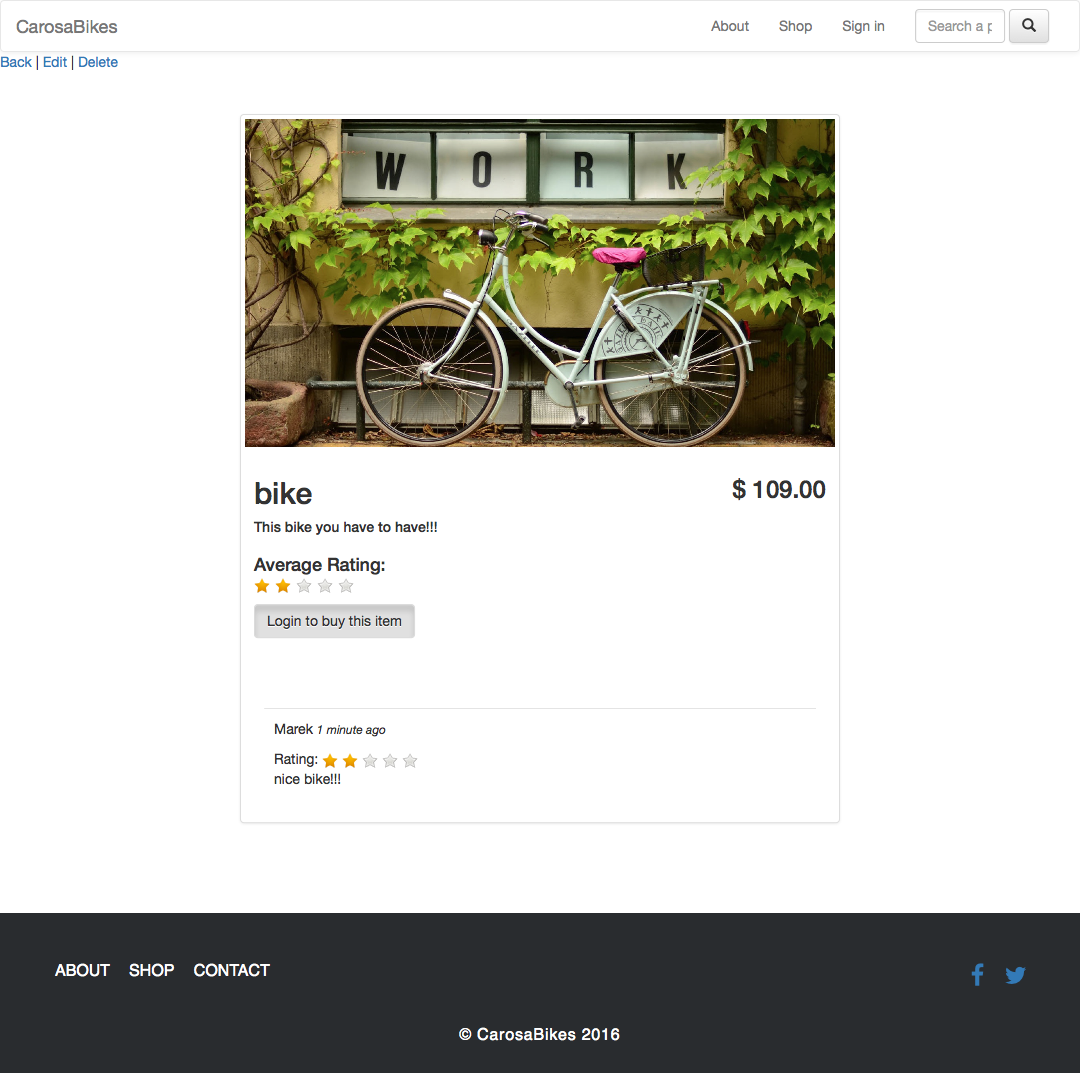
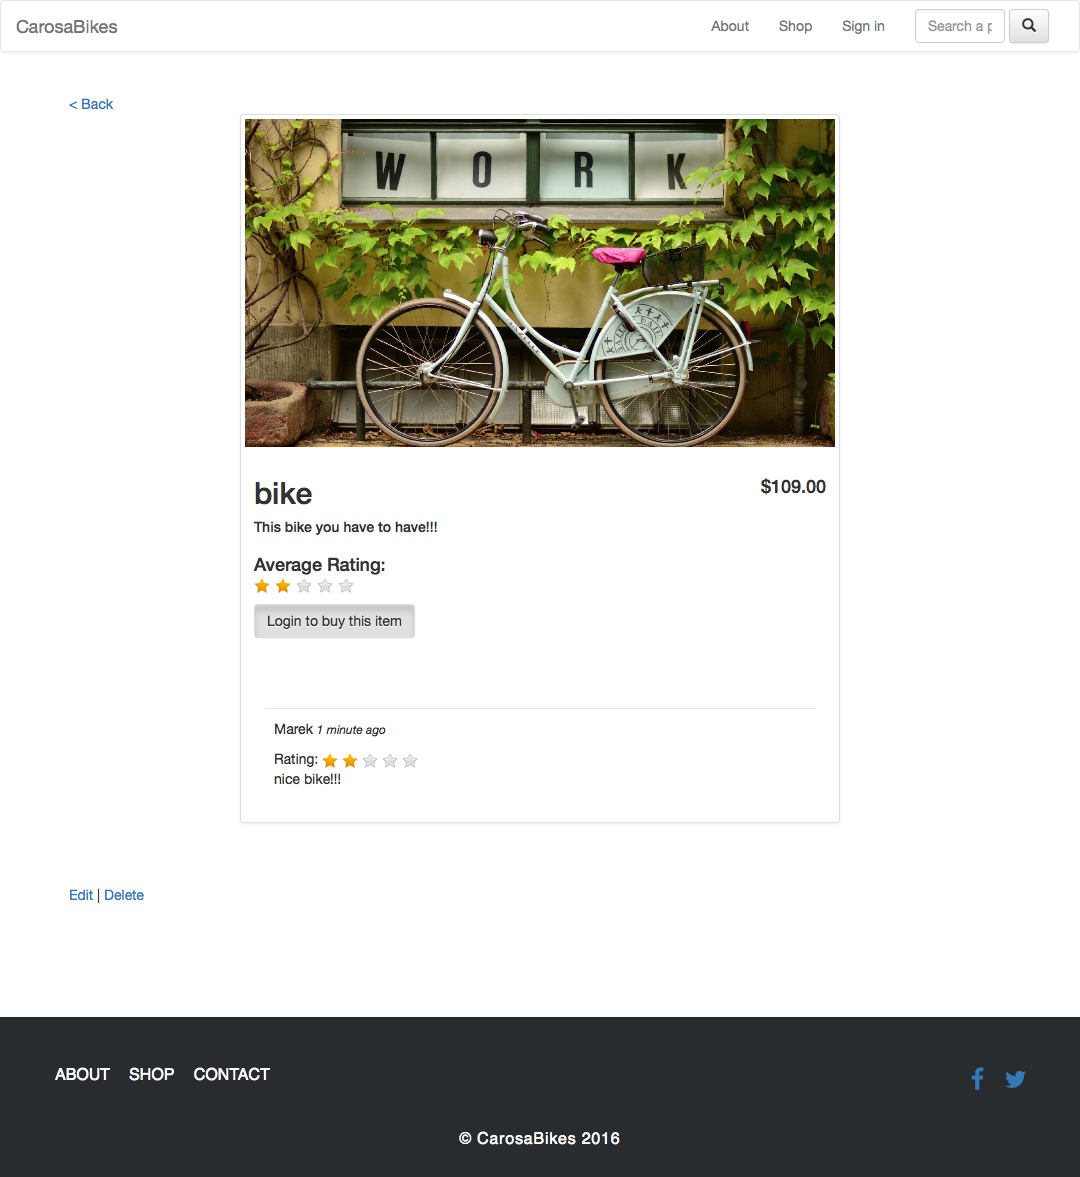
Styled the profile pages.

diff --git a/app/assets/stylesheets/users.scss b/app/assets/stylesheets/users.scss
@@ -1,3 +1,26 @@
 // Place all the styles related to the users controller here.
 // They will automatically be included in application.css.
 // You can use Sass (SCSS) here: http://sass-lang.com/
+
+h1 {
+  padding: 1.2em 0 0.9em
+}
+
+.profile-container {
+  margin: 5em auto;
+  width: 600px;
+  
+  img {
+    margin: 3em 0 0 0; 
+    width: 120px;
+  }
+}
+
+@media screen and (max-width: 769px) {
+  .profile-container {
+    width: 300px;
+    img {
+      margin: auto;
+    }
+  }    
+}

diff --git a/app/assets/stylesheets/products.scss b/app/assets/stylesheets/products.scss
@@ -8,6 +8,10 @@
   padding: 3em 1em 5em 1em;
 }
 
+h1 {
+  padding: 1.2em 0 0.9em;
+}
+
 .product-item {
   margin-top: 3em;
 

diff --git a/spec/features/redirection_in_login_logout_spec.rb b/spec/features/redirection_in_login_logout_spec.rb
@@ -17,7 +17,7 @@ describe "display products page" do
     expect(page).to have_current_path("/products")
   end
 
-  it "user logs out" do
+  it "when user logs out" do
     visit "/products"
     visit "/login"
     within("#new_user") do
@@ -25,8 +25,8 @@ describe "display products page" do
       fill_in 'user_password', :with => @user.password
     end
     click_button "Log in"
-    visit "/products/1"
+    visit "/products/3"
     click_link "Logout"
-    expect(page).to have_current_path("/products/1")
+    expect(page).to have_current_path("/products/3")
   end
 end
